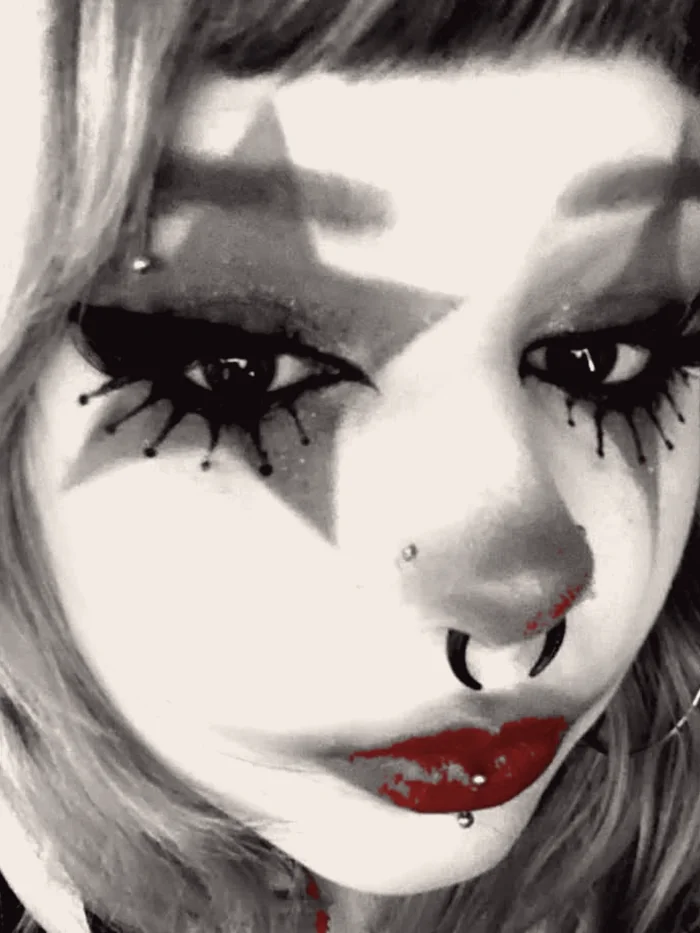
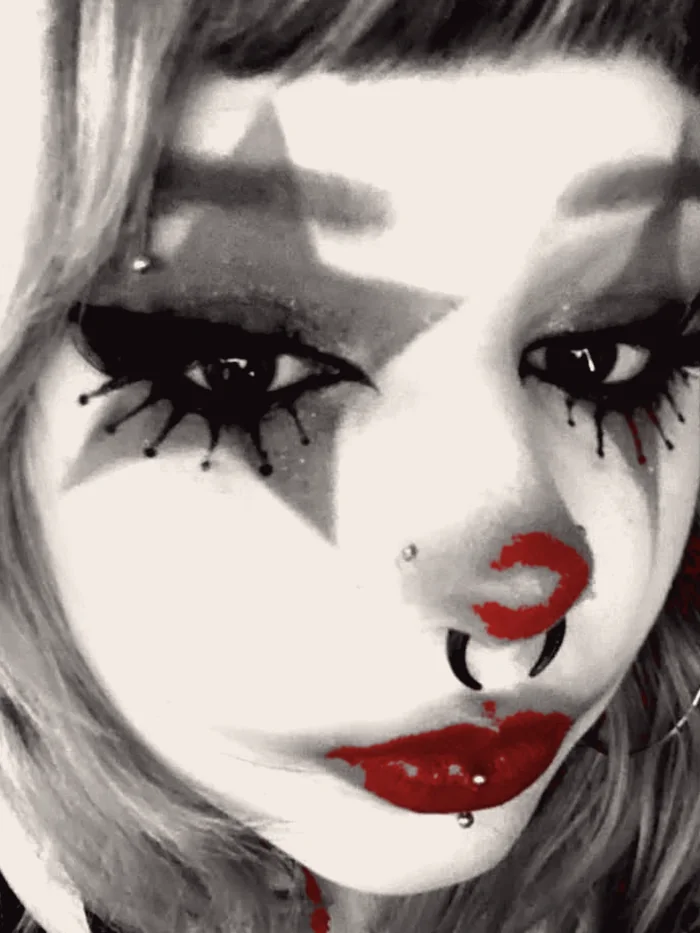
Regrade the cast, restore red everywhere and pick a new medallion
Neutral black and cream duotone with a selective red mask again, so lips, noses and red hair stay crimson without turning the whole photo sepia. Ringmaster had no red in the source, so it left the mask pair (now stargirl and cross) and the After dark strip moved to glasses, tongue, mint and bunny. The medallion now shows the red-haired clown with glasses, cropped square; the grayscale filter is gone from it. Image URLs carry v=3 to break the cached older copies.

diff --git a/index.html b/index.html
@@ -31,14 +31,14 @@ try { if (sessionStorage.getItem("cs-curtain") === "1") document.documentElement
   <header class="hero">
     <div class="stage-cone" aria-hidden="true"></div>
     <div class="hero-sides" aria-hidden="true">
-      <figure class="clown-card side-card side-1"><img src="assets/clown/redhair.webp" alt="" loading="lazy"></figure>
-      <figure class="clown-card side-card side-2"><img src="assets/clown/starblue.webp" alt="" loading="lazy"></figure>
-      <figure class="clown-card side-card side-3"><img src="assets/clown/green.webp" alt="" loading="lazy"></figure>
-      <figure class="clown-card side-card side-4"><img src="assets/clown/raven.webp" alt="" loading="lazy"></figure>
+      <figure class="clown-card side-card side-1"><img src="assets/clown/redhair.webp?v=3" alt="" loading="lazy"></figure>
+      <figure class="clown-card side-card side-2"><img src="assets/clown/starblue.webp?v=3" alt="" loading="lazy"></figure>
+      <figure class="clown-card side-card side-3"><img src="assets/clown/green.webp?v=3" alt="" loading="lazy"></figure>
+      <figure class="clown-card side-card side-4"><img src="assets/clown/raven.webp?v=3" alt="" loading="lazy"></figure>
     </div>
     <div class="medallion">
       <span class="bulbs" aria-hidden="true"></span>
-      <img class="portrait" src="assets/avatar.jpg" alt="Ceaseless Studio: a painted clown face">
+      <img class="portrait" src="assets/clown/logo-glasses.webp?v=3" alt="Ceaseless Studio: a painted clown with red hair and glasses">
       <span class="gloss" aria-hidden="true"></span>
     </div>
     <p class="kicker">Behind the painted grin</p>
@@ -67,8 +67,8 @@ try { if (sessionStorage.getItem("cs-curtain") === "1") document.documentElement
         <p>Everything lives under one name: <b>Ceaseless Studio</b>.</p>
       </div>
       <div class="mask-art" aria-hidden="true">
-        <figure class="clown-card tilt-a"><img src="assets/clown/ringmaster.webp" alt="" loading="lazy"></figure>
-        <figure class="clown-card tilt-b"><img src="assets/clown/stargirl.webp" alt="" loading="lazy"></figure>
+        <figure class="clown-card tilt-a"><img src="assets/clown/stargirl.webp?v=3" alt="" loading="lazy"></figure>
+        <figure class="clown-card tilt-b"><img src="assets/clown/cross.webp?v=3" alt="" loading="lazy"></figure>
       </div>
     </div>
   </section>
@@ -104,10 +104,10 @@ try { if (sessionStorage.getItem("cs-curtain") === "1") document.documentElement
   <section class="reveal">
     <h2>After dark</h2>
     <div class="cast-strip">
-      <figure class="clown-card"><img src="assets/clown/redhair.webp" alt="" loading="lazy"></figure>
-      <figure class="clown-card"><img src="assets/clown/green.webp" alt="" loading="lazy"></figure>
-      <figure class="clown-card"><img src="assets/clown/raven.webp" alt="" loading="lazy"></figure>
-      <figure class="clown-card"><img src="assets/clown/cross.webp" alt="" loading="lazy"></figure>
+      <figure class="clown-card"><img src="assets/clown/glasses.webp?v=3" alt="" loading="lazy"></figure>
+      <figure class="clown-card"><img src="assets/clown/tongue.webp?v=3" alt="" loading="lazy"></figure>
+      <figure class="clown-card"><img src="assets/clown/mint.webp?v=3" alt="" loading="lazy"></figure>
+      <figure class="clown-card"><img src="assets/clown/bunny.webp?v=3" alt="" loading="lazy"></figure>
     </div>
   </section>
 
@@ -175,7 +175,7 @@ try { if (sessionStorage.getItem("cs-curtain") === "1") document.documentElement
         <p class="social-hint">Click Discord to copy the handle.</p>
       </div>
       <figure class="clown-card contact-clown" aria-hidden="true">
-        <img src="assets/clown/scarlet.webp" alt="" loading="lazy">
+        <img src="assets/clown/scarlet.webp?v=3" alt="" loading="lazy">
       </figure>
     </div>
   </section>

diff --git a/style.css b/style.css
@@ -56,7 +56,7 @@ nav a.link:hover, nav a.link.on { color: var(--fg); }
 }
 .medallion .portrait {
   display: block; width: 100%; height: 100%; object-fit: cover; border-radius: 50%;
-  filter: grayscale(1) contrast(1.08) brightness(.97);
+  filter: contrast(1.04) brightness(.98);
 }
 .medallion::before {
   content: ""; position: absolute; inset: -8px; border-radius: 50%; pointer-events: none;
